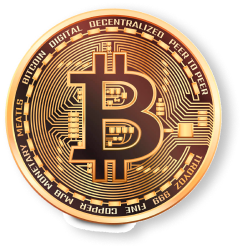
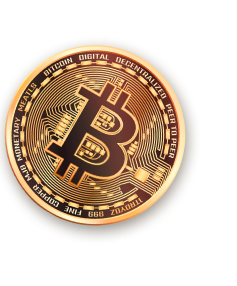
fix img and css

diff --git a/build/css/style.min.css b/build/css/style.min.css
@@ -1,1 +1,1 @@
-*{padding:0;margin:0;border:0}*,:after,:before{-webkit-box-sizing:border-box;box-sizing:border-box}aside,footer,header,nav,section{display:block}body{line-height:1;-ms-text-size-adjust:100%;-moz-text-size-adjust:100%;-webkit-text-size-adjust:100%}input::-ms-clear{display:none}button{cursor:pointer}button::-moz-focus-inner{padding:0;border:0}a,a:visited{text-decoration:none}a:hover{text-decoration:none}ul li{list-style:none}img{vertical-align:top}h1,h2,h3,h4,h5,h6{font-weight:inherit;font-size:inherit}@font-face{font-family:"Noto Sans";src:url(../fonts/NotoSans-Black.ttf) format("ttf");font-weight:900}@font-face{font-family:"Noto Sans";src:url(../fonts/NotoSans-Bold.ttf) format("ttf");font-weight:700}@font-face{font-family:"Noto Sans";src:url(../fonts/NotoSans-Medium.ttf) format("ttf");font-weight:500}@font-face{font-family:"Noto Sans";src:url(../fonts/NotoSans-Regular.ttf) format("ttf");font-weight:400}@font-face{font-family:"Noto Sans";src:url(../fonts/NotoSans-SemiBold.ttf) format("ttf");font-weight:800}.container{max-width:1440px;width:100%;margin:0 auto;padding:0 60px}body.locked{overflow:hidden}html{font-family:"Noto Sans",sans-serif}@-webkit-keyframes fade{0%{opacity:0}100%{opacity:1}}@keyframes fade{0%{opacity:0}100%{opacity:1}}.main__body{min-height:100vh}.main__screen{min-height:100vh;background:#fbf2e9;position:relative;overflow:hidden}.abs-img-1{position:absolute;left:0;top:0}.abs-img-2{position:absolute;left:0;bottom:0;z-index:1}.abs-img-3{position:absolute;right:0;top:0;z-index:1}.abs-img-4{position:absolute;right:0;bottom:0}.main-container{max-width:1440px;width:100%;height:600px;margin:0 auto;padding:40px 40px;display:-webkit-box;display:-ms-flexbox;display:flex;-webkit-box-align:center;-ms-flex-align:center;align-items:center;-webkit-box-pack:justify;-ms-flex-pack:justify;justify-content:space-between;gap:0}.abs-img-5{display:none}.main__left{max-width:700px;position:relative;z-index:10}.abs-img-main-1{position:absolute;left:300px;bottom:-150px;z-index:2;rotate:30deg}.abs-img-main-2{position:absolute;bottom:-130px;left:520px;z-index:2;rotate:30deg}.abs-img-main-3{position:absolute;bottom:-60px;left:440px;z-index:1;rotate:30deg}.main__subtitle{padding-bottom:16px;font-family:"Noto Sans",sans-serif;font-weight:500;font-size:16px;color:#948b89}.main__title{padding-bottom:80px;font-weight:900;line-height:clamp(2rem,1.164rem + 3.429vw,4.25rem);font-size:clamp(1.75rem,-2.865rem + 7.212vw,3.625rem);text-transform:uppercase;color:#594638}.main--button{display:-webkit-box;display:-ms-flexbox;display:flex;-webkit-box-align:center;-ms-flex-align:center;align-items:center;-webkit-box-pack:center;-ms-flex-pack:center;justify-content:center;border-radius:8px;padding:16px 40px;max-width:252px;background:#5d4239;font-weight:600;font-size:20px;color:#fff}.main--button--mobile{display:none}.main__right{position:relative;z-index:10;display:grid;grid-template-columns:303px 303px;grid-template-rows:163px 163px;-webkit-column-gap:32px;-moz-column-gap:32px;column-gap:32px;gap:32px}.main__right__item--title{font-weight:700;font-size:clamp(1.25rem,1.204rem + .19vw,1.375rem);color:#594638}.main__right__item--descr{padding-top:16px;font-weight:400;font-size:clamp(.875rem,.782rem + .381vw,1.125rem);color:#948b89}@media (max-width:1450px){.container{max-width:1200px}}@media screen and (max-width:1368px){.main-container{max-width:1200px;margin:0;padding:40px 40px}}@media screen and (max-width:1024px){.main-container{max-width:100%;-webkit-box-orient:vertical;-webkit-box-direction:normal;-ms-flex-direction:column;flex-direction:column;-webkit-box-align:baseline;-ms-flex-align:baseline;align-items:baseline}.main__title{padding-bottom:240px}.abs-img-main-1{bottom:40px;left:0;width:clamp(11.313rem,9.813rem + 6.151vw,13.75rem)}.abs-img-main-2{left:210px;bottom:50px;width:clamp(9.375rem,6.684rem + 11.041vw,13.75rem)}.abs-img-main-3{left:120px;bottom:110px;width:clamp(8.75rem,6.059rem + 11.041vw,13.125rem)}.main-container{height:100%}.main__right{padding-top:40px}}@media (max-width:992px){.container{max-width:970px;padding:0 40px}}@media (max-width:768px){.container{max-width:740px;padding:0 20px}}@media screen and (max-width:768px){.main__right{grid-template-columns:1fr;grid-template-rows:1fr 1fr 1fr 1fr;gap:32px}.abs-img-2{display:none}.abs-img-5{display:block;position:absolute;left:0;top:25%}.main--button{display:none}.main__title{padding-bottom:180px}.abs-img-main-1{bottom:-50px;left:0}.abs-img-main-2{left:210px;bottom:-40px}.abs-img-main-3{left:120px;bottom:10px}.main-container{padding:20px 20px}.main--button--mobile{display:-webkit-box!important;display:-ms-flexbox!important;display:flex!important;margin-top:30px}}@media (max-width:480px){.container{max-width:none}}@media screen and (max-width:400px){.abs-img-1{left:-15px;top:-20px}.abs-img-main-1{bottom:-35px;left:-20px}.abs-img-main-2{left:148px;bottom:-22px}.abs-img-main-3{left:91px;bottom:52px}}
+*{padding:0;margin:0;border:0}*,:after,:before{-webkit-box-sizing:border-box;box-sizing:border-box}aside,footer,header,nav,section{display:block}body{line-height:1;-ms-text-size-adjust:100%;-moz-text-size-adjust:100%;-webkit-text-size-adjust:100%}input::-ms-clear{display:none}button{cursor:pointer}button::-moz-focus-inner{padding:0;border:0}a,a:visited{text-decoration:none}a:hover{text-decoration:none}ul li{list-style:none}img{vertical-align:top}h1,h2,h3,h4,h5,h6{font-weight:inherit;font-size:inherit}@font-face{font-family:"Noto Sans";src:url(../fonts/NotoSans-Black.ttf) format("ttf");font-weight:900}@font-face{font-family:"Noto Sans";src:url(../fonts/NotoSans-Bold.ttf) format("ttf");font-weight:700}@font-face{font-family:"Noto Sans";src:url(../fonts/NotoSans-Medium.ttf) format("ttf");font-weight:500}@font-face{font-family:"Noto Sans";src:url(../fonts/NotoSans-Regular.ttf) format("ttf");font-weight:400}@font-face{font-family:"Noto Sans";src:url(../fonts/NotoSans-SemiBold.ttf) format("ttf");font-weight:800}.container{max-width:1440px;width:100%;margin:0 auto;padding:0 60px}body.locked{overflow:hidden}html{font-family:"Noto Sans",sans-serif}@-webkit-keyframes fade{0%{opacity:0}100%{opacity:1}}@keyframes fade{0%{opacity:0}100%{opacity:1}}.main__body{min-height:100vh}.main__screen{min-height:100vh;background:#fbf2e9;position:relative;overflow:hidden}.abs-img-1{position:absolute;left:0;top:0}.abs-img-2{position:absolute;left:0;bottom:0;z-index:1}.abs-img-3{position:absolute;right:0;top:0;z-index:1}.abs-img-4{position:absolute;right:0;bottom:0}.main-container{max-width:1440px;width:100%;height:600px;margin:0 auto;padding:40px 40px;display:-webkit-box;display:-ms-flexbox;display:flex;-webkit-box-align:center;-ms-flex-align:center;align-items:center;-webkit-box-pack:justify;-ms-flex-pack:justify;justify-content:space-between;gap:0}.abs-img-5{display:none}.main__left{max-width:700px;position:relative;z-index:10}.abs-img-main-1{position:absolute;left:300px;bottom:-150px;z-index:2}.abs-img-main-2{position:absolute;bottom:-130px;left:475px;z-index:2}.abs-img-main-3{position:absolute;bottom:-60px;left:390px;z-index:1}.main__subtitle{padding-bottom:16px;font-family:"Noto Sans",sans-serif;font-weight:500;font-size:16px;color:#948b89}.main__title{padding-bottom:80px;font-weight:900;line-height:clamp(2rem,1.164rem + 3.429vw,4.25rem);font-size:clamp(1.75rem,-2.865rem + 7.212vw,3.625rem);text-transform:uppercase;color:#594638}.main--button{display:-webkit-box;display:-ms-flexbox;display:flex;-webkit-box-align:center;-ms-flex-align:center;align-items:center;-webkit-box-pack:center;-ms-flex-pack:center;justify-content:center;border-radius:8px;padding:16px 40px;max-width:252px;background:#5d4239;font-weight:600;font-size:20px;color:#fff}.main--button--mobile{display:none}.main__right{position:relative;z-index:10;display:grid;grid-template-columns:303px 303px;grid-template-rows:163px 163px;-webkit-column-gap:32px;-moz-column-gap:32px;column-gap:32px;gap:32px}.main__right__item--title{font-weight:700;font-size:clamp(1.25rem,1.204rem + .19vw,1.375rem);color:#594638}.main__right__item--descr{padding-top:16px;font-weight:400;font-size:clamp(.875rem,.782rem + .381vw,1.125rem);color:#948b89}@media (max-width:1450px){.container{max-width:1200px}}@media screen and (max-width:1368px){.main-container{max-width:1200px;margin:0;padding:40px 40px}}@media screen and (max-width:1024px){.main-container{max-width:100%;-webkit-box-orient:vertical;-webkit-box-direction:normal;-ms-flex-direction:column;flex-direction:column;-webkit-box-align:baseline;-ms-flex-align:baseline;align-items:baseline}.main__title{padding-bottom:240px}.abs-img-main-1{bottom:40px;left:0}.abs-img-main-2{left:168px;bottom:57px}.abs-img-main-3{left:93px;bottom:120px}.main-container{height:100%}.main__right{padding-top:40px}}@media (max-width:992px){.container{max-width:970px;padding:0 40px}}@media (max-width:768px){.container{max-width:740px;padding:0 20px}}@media screen and (max-width:768px){.main__right{grid-template-columns:1fr;grid-template-rows:1fr 1fr 1fr 1fr;gap:32px}.abs-img-2{display:none}.abs-img-5{display:block;position:absolute;left:0;top:25%}.main--button{display:none}.main__title{padding-bottom:180px}.abs-img-main-1{bottom:-50px;left:0}.abs-img-main-2{left:171px;bottom:-33px}.abs-img-main-3{left:92px;bottom:10px}.main-container{padding:20px 20px}.main--button--mobile{display:-webkit-box!important;display:-ms-flexbox!important;display:flex!important;margin-top:30px}}@media (max-width:480px){.container{max-width:none}}@media screen and (max-width:400px){.abs-img-1{left:-15px;top:-20px}.abs-img-main-1{bottom:-73px;left:-20px}.abs-img-main-2{left:143px;bottom:-56px}.abs-img-main-3{left:67px;bottom:1px}}

diff --git a/src/scss/_main.scss b/src/scss/_main.scss
@@ -54,21 +54,18 @@
   left: 300px;
   bottom: -150px;
   z-index: 2;
-  rotate: 30deg;
 }
 .abs-img-main-2 {
   position: absolute;
   bottom: -130px;
-  left: 520px;
+  left: 475px;
   z-index: 2;
-  rotate: 30deg;
 }
 .abs-img-main-3 {
   position: absolute;
   bottom: -60px;
-  left: 440px;
+  left: 390px;
   z-index: 1;
-  rotate: 30deg;
 }
 .main__subtitle {
   padding-bottom: 16px;
@@ -141,17 +138,14 @@
   .abs-img-main-1 {
     bottom: 40px;
     left: 0;
-    width: clamp(11.313rem, 9.813rem + 6.151vw, 13.75rem);
   }
   .abs-img-main-2 {
-    left: 210px;
-    bottom: 50px;
-    width: clamp(9.375rem, 6.684rem + 11.041vw, 13.75rem);
+    left: 168px;
+    bottom: 57px;
   }
   .abs-img-main-3 {
-    left: 120px;
-    bottom: 110px;
-    width: clamp(8.75rem, 6.059rem + 11.041vw, 13.125rem);
+    left: 93px;
+    bottom: 120px;
   }
   .main-container {
     height: 100%;
@@ -186,11 +180,11 @@
     left: 0;
   }
   .abs-img-main-2 {
-    left: 210px;
-    bottom: -40px;
+    left: 171px;
+    bottom: -33px;
   }
   .abs-img-main-3 {
-    left: 120px;
+    left: 92px;
     bottom: 10px;
   }
   .main-container {
@@ -207,15 +201,15 @@
     top: -20px;
   }
   .abs-img-main-1 {
-    bottom: -35px;
+    bottom: -73px;
     left: -20px;
   }
   .abs-img-main-2 {
-    left: 148px;
-    bottom: -22px;
+    left: 143px;
+    bottom: -56px;
   }
   .abs-img-main-3 {
-    left: 91px;
-    bottom: 52px;
+    left: 67px;
+    bottom: 1px;
   }
 }

diff --git a/build/css/style.css b/build/css/style.css
@@ -201,23 +201,20 @@ html {
   left: 300px;
   bottom: -150px;
   z-index: 2;
-  rotate: 30deg;
 }
 
 .abs-img-main-2 {
   position: absolute;
   bottom: -130px;
-  left: 520px;
+  left: 475px;
   z-index: 2;
-  rotate: 30deg;
 }
 
 .abs-img-main-3 {
   position: absolute;
   bottom: -60px;
-  left: 440px;
+  left: 390px;
   z-index: 1;
-  rotate: 30deg;
 }
 
 .main__subtitle {
@@ -318,19 +315,16 @@ html {
   .abs-img-main-1 {
     bottom: 40px;
     left: 0;
-    width: clamp(11.313rem, 9.813rem + 6.151vw, 13.75rem);
   }
 
   .abs-img-main-2 {
-    left: 210px;
-    bottom: 50px;
-    width: clamp(9.375rem, 6.684rem + 11.041vw, 13.75rem);
+    left: 168px;
+    bottom: 57px;
   }
 
   .abs-img-main-3 {
-    left: 120px;
-    bottom: 110px;
-    width: clamp(8.75rem, 6.059rem + 11.041vw, 13.125rem);
+    left: 93px;
+    bottom: 120px;
   }
 
   .main-container {
@@ -388,12 +382,12 @@ html {
   }
 
   .abs-img-main-2 {
-    left: 210px;
-    bottom: -40px;
+    left: 171px;
+    bottom: -33px;
   }
 
   .abs-img-main-3 {
-    left: 120px;
+    left: 92px;
     bottom: 10px;
   }
 
@@ -422,17 +416,17 @@ html {
   }
 
   .abs-img-main-1 {
-    bottom: -35px;
+    bottom: -73px;
     left: -20px;
   }
 
   .abs-img-main-2 {
-    left: 148px;
-    bottom: -22px;
+    left: 143px;
+    bottom: -56px;
   }
 
   .abs-img-main-3 {
-    left: 91px;
-    bottom: 52px;
+    left: 67px;
+    bottom: 1px;
   }
 }
